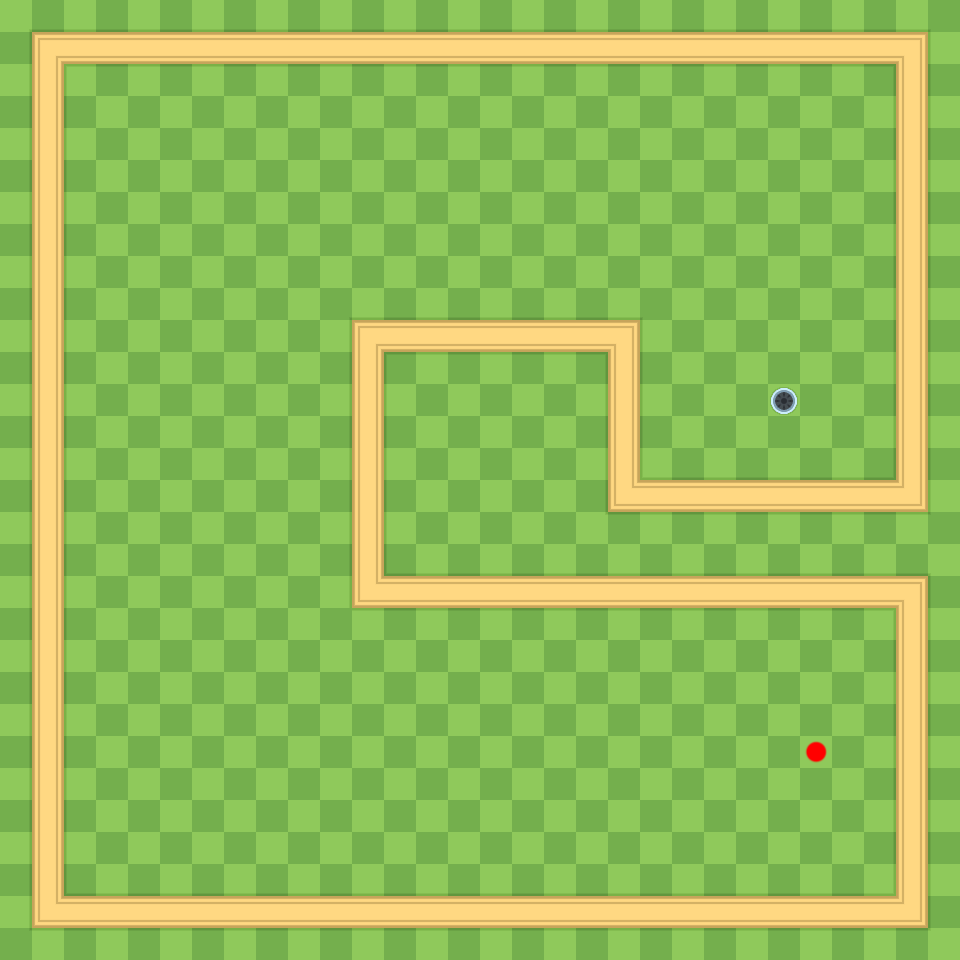
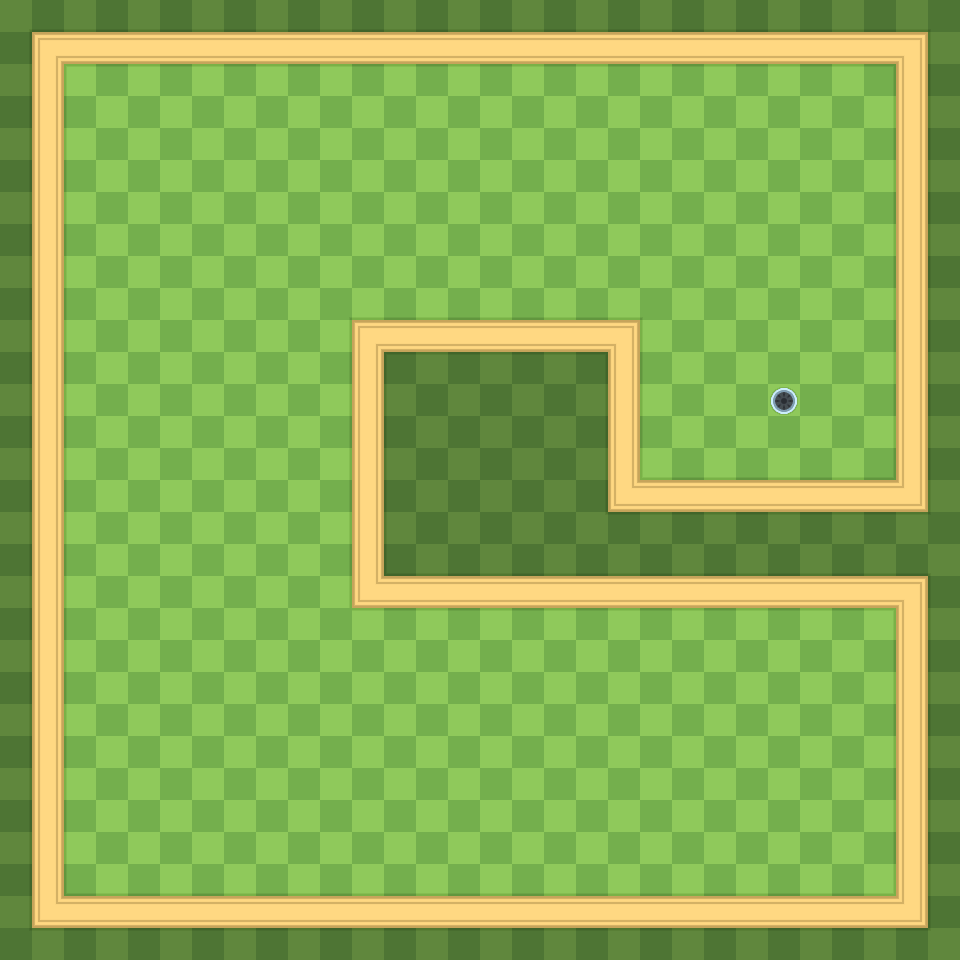
Initialised line objects as borders and utilised Aryan's dx/dy delta rebounce methods as implementation. Fixed the global variable for hole x,y position.

Changed region(s): [[0.0, 0.0, 1.0, 1.0], [0.8438, 0.75, 0.875, 0.8125]]

diff --git a/src/GolfioPackage/Ball.java b/src/GolfioPackage/Ball.java
@@ -2,8 +2,7 @@ package GolfioPackage;
 
 import javafx.animation.*;
 import javafx.event.ActionEvent;
-import javafx.event.EventHandler;
-import javafx.geometry.Bounds;
+import javafx.scene.Group;
 import javafx.scene.image.Image;
 import javafx.scene.paint.Color;
 import javafx.scene.paint.ImagePattern;
@@ -12,9 +11,15 @@ import javafx.scene.input.MouseEvent;
 import javafx.scene.shape.*;
 import javafx.util.Duration;
 
+import javax.smartcardio.Card;
+import java.util.ArrayList;
+import java.util.List;
+
 public class Ball extends Circle {
 
     public Line currentLine;
+    public ArrayList<ArrayList<Line>> outerListHorizontalLines = new ArrayList<>();
+    public ArrayList<ArrayList<Line>> outerListVerticalLines = new ArrayList<>();
     public double amountToBounceX;
     public double amountToBounceY;
     public Timeline launchBallTL;
@@ -22,9 +27,32 @@ public class Ball extends Circle {
     public boolean didReboundLeftRight = false;
     public boolean didReboundTopBottom = false;
     public double reboundDelta = 1;
+    public Line getCurrentHorizontalLine;
+    public Line getCurrentVerticalLine;
 
     public Ball(double radius, Color color) {
         super(radius, color);
+    }
+
+    public void initialiseLevelOneBorders(){
+        ArrayList<Line> innerListStage1Horizontal = new ArrayList<>();
+        ArrayList<Line> innerListStage1Vertical = new ArrayList<>();
+        Line border1 = new Line(64.0, 64.0, 895.0, 64.0);
+        Line border2 = new Line(64.0, 64.0, 64.0, 894.0);
+        Line border3 = new Line(64.0, 895.0, 895.0, 895.0);
+        Line border4 = new Line(895.0, 895.0, 895.0, 608.0);
+        Line border5 = new Line(895.0, 608.0, 350.0, 608.0);
+        Line border6 = new Line(351.0, 608.0, 351.0, 319.0);
+        Line border7 = new Line(351.0, 319.0, 640.0, 319.0);
+        Line border8 = new Line(640.0, 319.0, 640.0, 480.0);
+        Line border9 = new Line(640.0, 480.0, 895.0, 480.0);
+        Line border10 = new Line(895.0, 480.0, 895.0, 64.0);
+        innerListStage1Horizontal.add(border1);
+        innerListStage1Vertical.add(border2);
+        outerListHorizontalLines.add(innerListStage1Horizontal);
+        outerListVerticalLines.add(innerListStage1Vertical);
+        Group group = new Group(border1, border2, border3, border4, border5, border6, border7, border8, border9, border10);
+        Main.aPane.getChildren().add(group);
     }
 
     public void initialiseBall(String userData, double xPosition, double yPosition, Image image) {
@@ -89,13 +117,21 @@ public class Ball extends Circle {
         Timeline wallCollisionTL = new Timeline(new KeyFrame(Duration.millis(10),
                 (ActionEvent t) -> {
 
-                    final Bounds bounds = Main.aPane.getBoundsInLocal();
-                    final boolean atRightBorder = getCircle().getLayoutX() >= (bounds.getMaxX() - getCircle().getRadius());
-                    final boolean atLeftBorder = getCircle().getLayoutX() <= (bounds.getMinX() + getCircle().getRadius());
-                    final boolean atBottomBorder = getCircle().getLayoutY() >= (bounds.getMaxY() - getCircle().getRadius());
-                    final boolean atTopBorder = getCircle().getLayoutY() <= (bounds.getMinY() + getCircle().getRadius());
+//                    final Bounds bounds = Main.aPane.getBoundsInLocal();
+//                    final boolean atRightBorder = getCircle().getLayoutX() >= (bounds.getMaxX() - getCircle().getRadius());
+//                    final boolean atLeftBorder = getCircle().getLayoutX() <= (bounds.getMinX() + getCircle().getRadius());
+//                    final boolean atBottomBorder = getCircle().getLayoutY() >= (bounds.getMaxY() - getCircle().getRadius());
+//                    final boolean atTopBorder = getCircle().getLayoutY() <= (bounds.getMinY() + getCircle().getRadius());
 
-                    if (atRightBorder || atLeftBorder) {
+                    for (int i = 0; i < outerListHorizontalLines.size(); i++) {
+                        getCurrentHorizontalLine = outerListHorizontalLines.get(i).get(i);
+                    }
+
+                    for (int i = 0; i < outerListVerticalLines.size(); i++) {
+                        getCurrentVerticalLine = outerListVerticalLines.get(i).get(i);
+                    }
+
+                    if (this.getBoundsInParent().intersects(getCurrentVerticalLine.getBoundsInParent())) {
                         relaunchBall((getCircle().getLayoutX() + (amountToBounceX * Main.reboundFactor)),
                                 (getCircle().getLayoutY() - (amountToBounceY * Main.reboundFactor)));
                         didReboundLeftRight = true;
@@ -108,7 +144,7 @@ public class Ball extends Circle {
                         }
                     }
 
-                    if (atBottomBorder || atTopBorder) {
+                    if (this.getBoundsInParent().intersects(getCurrentHorizontalLine.getBoundsInParent())) {
                         relaunchBall((getCircle().getLayoutX() - (amountToBounceX * Main.reboundFactor)),
                                 (getCircle().getLayoutY() + (amountToBounceY * Main.reboundFactor)));
                         didReboundTopBottom = true;
@@ -162,8 +198,8 @@ public class Ball extends Circle {
         double X1 = this.getLayoutX();
         double Y1 = this.getLayoutY();
         double radius1 = this.getRadius();
-        double X2 = 500;
-        double Y2 = 800;
+        double X2 = Main.setHoleXPos;
+        double Y2 = Main.setHoleYPos;
         double radius2 = 15;
         double distance = Math.pow((X1 - X2) * (X1 - X2) + (Y1 - Y2) * (Y1 - Y2), 0.5);
         if (radius2 >= radius1 && distance <= (radius2 - radius1)) {

diff --git a/src/GolfioPackage/Main.java b/src/GolfioPackage/Main.java
@@ -3,6 +3,7 @@ package GolfioPackage;
 import javafx.application.Application;
 import javafx.scene.Cursor;
 import javafx.scene.Scene;
+import javafx.scene.image.ImageView;
 import javafx.scene.layout.*;
 import javafx.scene.paint.Color;
 import javafx.scene.image.Image;
@@ -19,6 +20,8 @@ public class Main extends Application {
 
     public static AnchorPane aPane;
     public static final double reboundFactor = 0.5;
+    public static double setHoleXPos = 784;
+    public static double setHoleYPos = 400;
     private Text mouseXText;
     private Text mouseYText;
     private Text distanceText;
@@ -29,17 +32,18 @@ public class Main extends Application {
     @Override
     public void start(Stage primaryStage) throws Exception {
         //Parent root = FXMLLoader.load(getClass().getResource("stage1.fxml"));
-        primaryStage.setTitle("Golfio");
+        primaryStage.setTitle("Golfio - Dev Mode");
         primaryStage.setResizable(false);
 
         // Load images.
         Image ballImage = new Image(new FileInputStream("Images/Ball.png"));
         Image map = new Image(new FileInputStream("Images/GolfLevel_01.png"));
         //Image holeImage = new Image(new FileInputStream("Images/Hole.png"));
-        Ball ball = new Ball(10, Color.RED);
+        Ball ball = new Ball(10, null);
         Hole hole = new Hole(15, Color.BLACK);
-        ball.initialiseBall("ball", 500, 500, ballImage);
-        hole.initialiseHole("hole", 500, 800);
+        ball.initialiseBall("ball", 816, 752, ballImage);
+        hole.initialiseHole("hole", setHoleXPos, setHoleYPos);
+        hole.setVisible(false);
 
         // Create Text to display mouseX and  mouseY coordinates.
         mouseXText = new Text (20, 20, "X: 0");
@@ -56,12 +60,12 @@ public class Main extends Application {
 
         // Create a new AnchorPane.
         aPane = new AnchorPane(hole.getCircle(), ball.getCircle(), mouseXText, mouseYText, distanceText);
-        //aPane.setBackground(new Background(new BackgroundFill(Color.WHITE, CornerRadii.EMPTY, Insets.EMPTY)));
         BackgroundSize backgroundSize = new BackgroundSize(960, 960, false, false, false, false);
         aPane.setBackground(new Background(new BackgroundImage(map, BackgroundRepeat.REPEAT, BackgroundRepeat.REPEAT, null, backgroundSize)));
         createPaneEventHandlers(aPane, ball);
         ball.createWallCollisionListener();
-        Scene scene = new Scene(aPane, 960, 960); //983, 983
+        ball.initialiseLevelOneBorders();
+        Scene scene = new Scene(aPane, 960, 960);
         System.out.println(aPane.getWidth());
         System.out.println(aPane.getHeight());
         primaryStage.setScene(scene);
